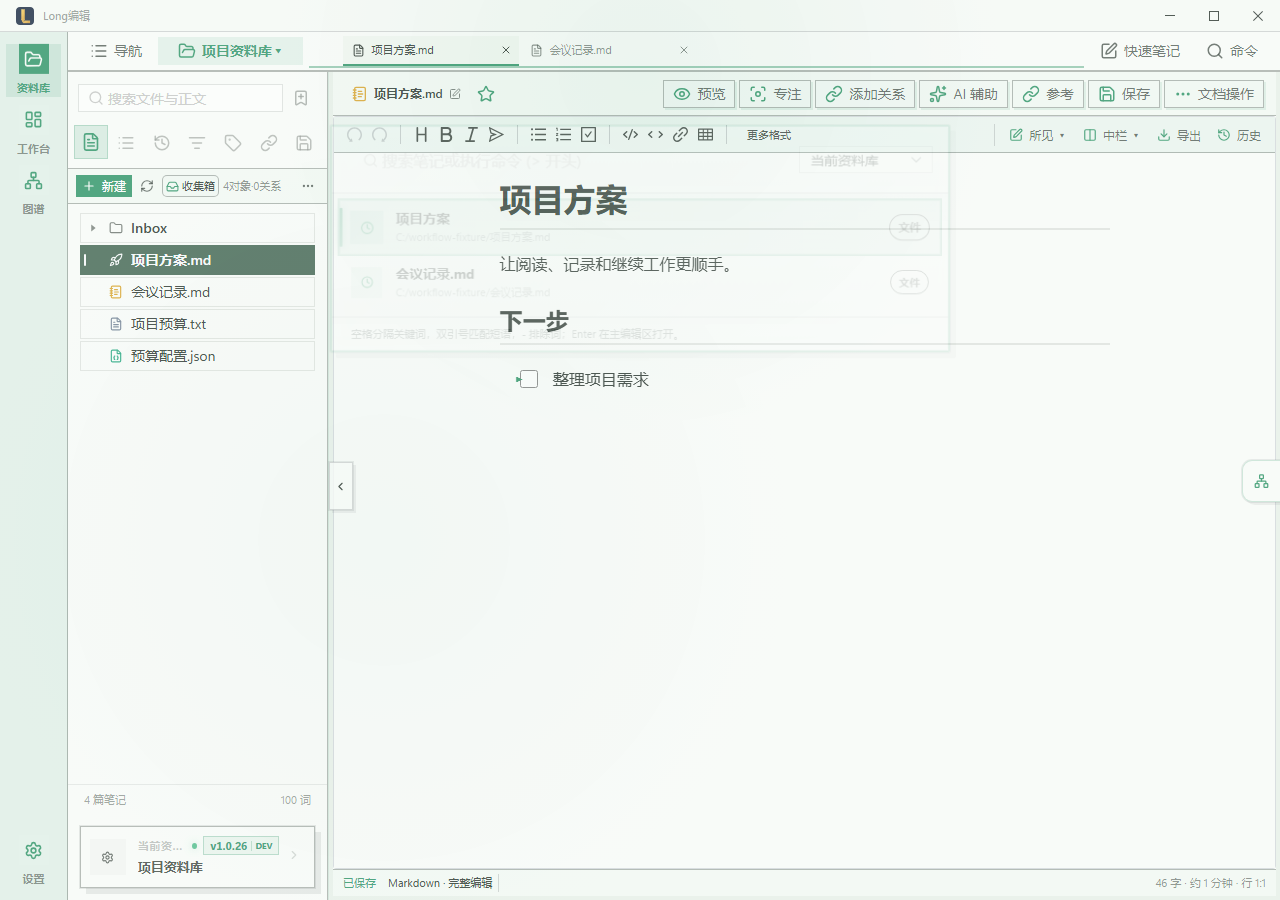
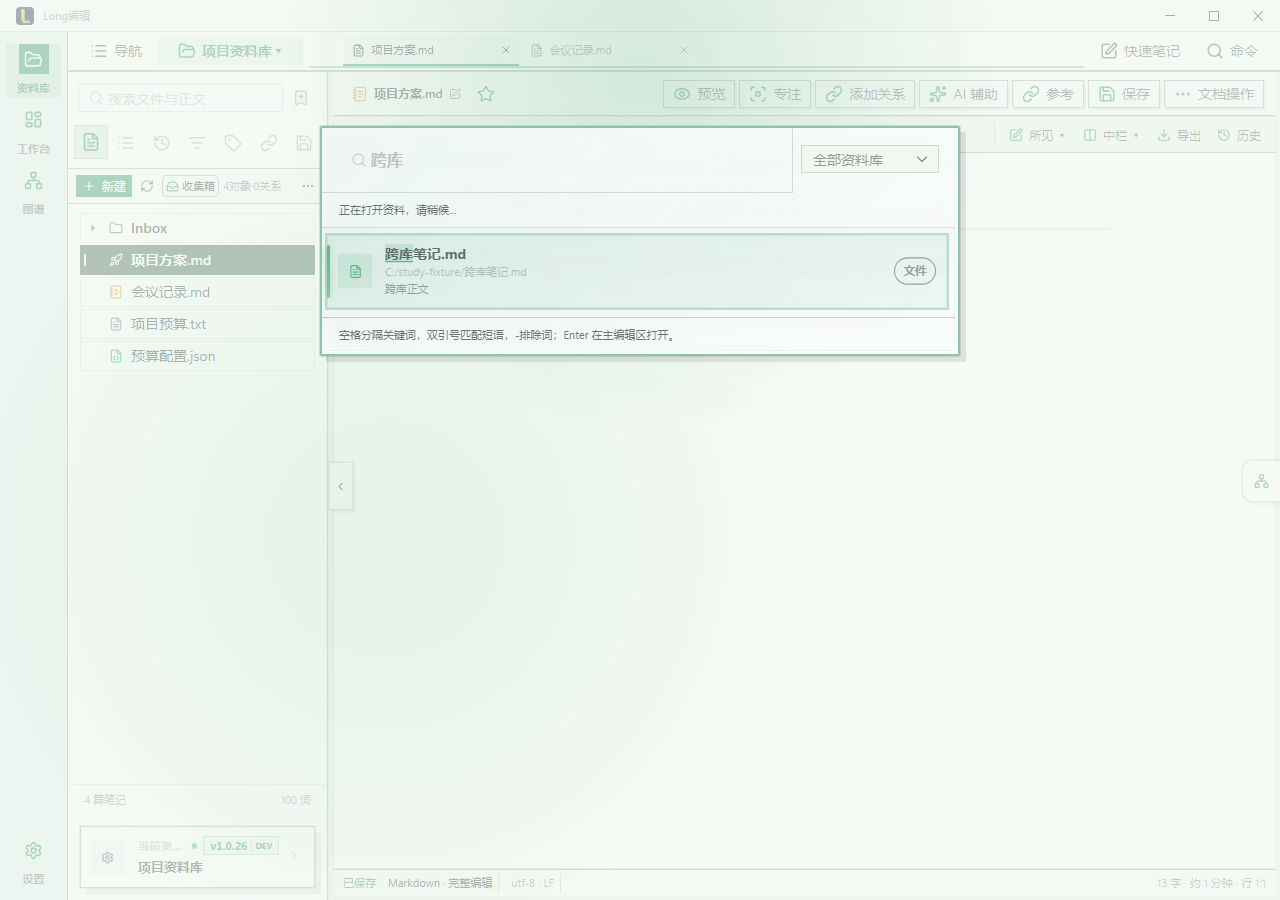
fix: close command palette with real keyboard focus and protect pending opens

diff --git a/src/components/CommandPalette.vue b/src/components/CommandPalette.vue
@@ -23,6 +23,7 @@
         <n-select v-if="!query.startsWith('>')" v-model:value="scope" class="palette-scope" aria-label="搜索范围" :to="overlayHost || undefined" :disabled="opening" :options="scopeOptions" size="small" />
         </div>
         <div v-if="searching" class="palette-status" role="status">正在查找资料…</div>
+        <div v-if="opening" class="palette-status" role="status">正在打开资料，请稍候…</div>
         <div v-if="error" class="palette-status palette-error" role="alert">{{ error }}<n-button v-if="!opening" size="tiny" @click="scheduleSearch">重试</n-button></div>
         <div v-if="warnings.length" class="palette-status" role="status">{{ warnings.join('；') }}</div>
         <div class="results-list" v-if="results.length > 0" :aria-busy="searching || opening" role="listbox" aria-label="资料与命令结果">
@@ -58,7 +59,7 @@
 </template>
 
 <script setup lang="ts">
-import { ref, watch, nextTick, onUnmounted } from 'vue'
+import { ref, watch, nextTick, onMounted, onUnmounted } from 'vue'
 import { NButton, NSelect } from 'naive-ui'
 import { Search as SearchIcon, FileText as FileIcon, Command as CommandIcon, Clock as ClockIcon } from 'lucide-vue-next'
 import { InputInst } from 'naive-ui'
@@ -82,12 +83,26 @@ const store = useAppStore(), scope = ref<'current' | 'all'>('current')
 const scopeOptions = [{ label: '当前资料库', value: 'current' }, { label: '全部资料库', value: 'all' }]
 const searching = ref(false), opening = ref(false), error = ref(''), warnings = ref<string[]>([]), limitReached = ref(false)
 let generation = 0, disposed = false
+let previousFocus: HTMLElement | null = null
+let restoreFocusOnClose = true
 
-const close = () => { invalidateSearch(); emitEvent('close') }
+const close = () => { if (opening.value) return; invalidateSearch(); emitEvent('close') }
+const handleEscape = (event: KeyboardEvent) => {
+  if (!props.show || event.key !== 'Escape') return
+  event.preventDefault(); event.stopPropagation(); close()
+}
+onMounted(() => window.addEventListener('keydown', handleEscape, true))
 
 watch(() => props.show, (newVal) => {
-  if (newVal) { query.value = ''; selectedIndex.value = 0; scheduleSearch(); nextTick(() => inputInst.value?.focus()) }
-  else invalidateSearch()
+  if (newVal) {
+    restoreFocusOnClose = true
+    const focused = document.activeElement
+    if (focused instanceof HTMLElement && !overlayHost.value?.contains(focused)) previousFocus = focused
+    query.value = ''; selectedIndex.value = 0; scheduleSearch(); nextTick(() => inputInst.value?.focus())
+  } else {
+    invalidateSearch()
+    nextTick(() => { if (!props.show && restoreFocusOnClose && previousFocus?.isConnected) previousFocus.focus({ preventScroll: true }) })
+  }
 })
 
 const moveSelection = (dir: number) => {
@@ -101,7 +116,7 @@ const handleEnter = () => {
 }
 
 const execute = async (item: any) => {
-  if (searching.value || opening.value) return
+  if (!props.show || disposed || searching.value || opening.value) return
   opening.value = true; error.value = ''
   try {
     if (item.type === 'file') {
@@ -113,7 +128,8 @@ const execute = async (item: any) => {
         await store.updateConfig({ activeLibraryPath: library.path })
       }
     }
-    emitEvent('execute', item); close()
+    if (disposed || !props.show) return
+    restoreFocusOnClose = false; opening.value = false; emitEvent('execute', item); close()
   } catch (cause) { error.value = String(cause).replace(/^Error:\s*/, '') }
   finally { opening.value = false }
 }
@@ -239,6 +255,7 @@ function scheduleSearch() {
 watch([query, scope, () => store.libraryPath], scheduleSearch)
 
 onUnmounted(() => {
+  window.removeEventListener('keydown', handleEscape, true)
   disposed = true; invalidateSearch()
 })
 </script>

diff --git a/docs/V1_1_5_Unsigned_Community_Release_Audit_2026-10-15.md b/docs/V1_1_5_Unsigned_Community_Release_Audit_2026-10-15.md
@@ -1,5 +1,9 @@
 # v1.1.5 安全导入与搜索一致性候选审计
 
+> 2026-10-16 补充阻断：`2030d8b5` 候选因新增真实键盘检查发现 Esc 关闭缺陷，不能晋级或公开其安装器。原测试通过定位输入框来按键，会隐式恢复焦点；改成用户实际的全局按键后，范围选择后的关闭断言确实失败。现已修复面板级 Esc、取消时还原编辑焦点、关闭动画期间忽略旧项目、跨库配置持久化期间禁止半途取消/重复打开并明确显示等待状态。接下来必须用修复后的新固定源码重新构建安装器，不能沿用旧包。
+
+补充修复的实际组件回归为 **8 组流程、六风格宽窄 12 组布局、0 页面错误**，全局键盘操作不再通过定位输入框代按；加入延迟原生配置持久化、实际点击遮罩及重复点击、保存草稿后跨库打开的检查。禁用结果行的重复点击采用实际鼠标坐标，不强制派发被界面禁止的点击，仍断言只有一次配置写入；正常动效保留，已查看 [实际等待页面](evidence/v115-search-consistency-development/pending-library-open.png)。完整质量门、修复后最新构建和生产依赖 0 漏洞通过，Rust 产品代码没有再改动。
+
 ## 状态与范围
 
 当前公开版仍为 **v1.1.4**。1.1.5 只补强已有导入与搜索：同名保留两份、Markdown 本地图片安全迁移、多文件逐项失败重试、命令面板与资料库共享查询和当前/全部库范围、异步乱序与跨库草稿保护。六种风格与现有格式能力保留，没有加入新的归档步骤或削减功能。
@@ -17,6 +21,8 @@
 修复后固定产品源码为 `2030d8b58dcd56935aeb249873d88815cc70882b`，[构建与生命周期运行 38767517226](https://github.com/Longyuyeee/Long_MarkDownReader/actions/runs/38767517226) 从官方 1.1.4 NSIS 开始验证。[PR #53](https://github.com/Longyuyeee/Long_MarkDownReader/pull/53) 保留产品提交祖先链；第一轮取消的源码和运行不能替代此版本证据。构建、安装与同包复核未完成前，README 不切换下载。
 
 PR 云端质量门与原生功能回归运行 `38767524125` 已成功，保留全部测试断言，生产依赖 0 漏洞。代码已通过合并提交 `2bcf965cd6520dedb27da1d6e4f53ffafe7b6197` 合入 main；此为代码检查通过，不替代安装器验证或正式发布。
+
+合并后的 [main CI 38769890210](https://github.com/Longyuyeee/Long_MarkDownReader/actions/runs/38769890210) 亦已成功。候选构建运行自身的完整质量门、原生功能与独立性能步骤成功，之后开始 MSI/NSIS 构建；此时尚无安装态通过结论。
 
 - 运行时、锁文件、37 份当前能力合同和开发状态一致为 1.1.5，历史证据不改写。
 - 冻结完整源码 SHA，构建 MSI/NSIS，保留精确大小、SHA256 与未签名提示。

diff --git a/docs/Development_Handoff.md b/docs/Development_Handoff.md
@@ -1,5 +1,7 @@
 # 2026-10-15：v1.1.5 安全导入与搜索一致性（当前开发入口）
 
+最新补充：新增更接近用户的键盘检查后，已修复范围选择/失败点击后 Esc 无法关闭面板的问题，并完善退出还原编辑焦点及正在换库时的等待/重复提交保护。组件回归现为 8 组 / 12 布局 / 0 页面错误，完整质量门和最新构建通过。旧 `2030d8b5` 候选及运行 `38767517226` 不可作为最终发布基础，需要用此修复后的固定源码重新构建与验收；以下旧候选进度作为过程记录保留。
+
 用户已确认按审计建议推进至可收尾发版。本版范围仅为安全导入与搜索一致性，见 [实施计划](V1_1_5_Foundation_Hardening_Plan_2026-10-15.md)。运行时现已迁移为 1.1.5 候选，公开版本仍为 1.1.4；正在冻结安装器和执行本版真实安装态验收，见 [候选审计](V1_1_5_Unsigned_Community_Release_Audit_2026-10-15.md)。下面的 1.1.4 发布证据保持原样。
 
 第一批已实现外部导入防覆盖、Markdown 本地图片独立迁移、正文最后以无覆盖移动发布、多文件逐项结果和仅失败项重试；外部草稿未保存时阻止存入，不自动代存。实际界面示意已先展示，实际 LibraryMode 拖入事件适配与弹窗 3 组流程、六风格宽窄 12 组布局通过，正常动效保留。原生真实文件回归与构建结果见实施计划，组件夹具不能代替新安装包验收。

diff --git a/docs/RELEASE_NOTES_v1.1.5.md b/docs/RELEASE_NOTES_v1.1.5.md
@@ -7,6 +7,7 @@
 - 命令面板和资料库复用知识搜索。支持多个关键词、双引号短语、`-排除词`；命令面板可选当前资料库或全部已配置资料库，结果在主编辑区打开。
 - 修复快速输入、关闭重开和切换命令模式时旧结果回填；加载、无结果、失败及部分库不可用分别提示。
 - 跨库打开前捕获尚未提交的编辑输入，保护未保存草稿；修复范围下拉遮挡与短窗口键盘结果滚动。
+- 修复选过范围或打开被阻止后 Esc 无法关闭面板；取消时返回原编辑焦点，换库持久化期间明确等待并避免重复打开。
 
 社区版安装器未做 Authenticode 签名，Windows 可能显示未知发布者。发布前此文件为候选说明；安装器摘要、升级及安装态结果以本版发布审计为准。
 
